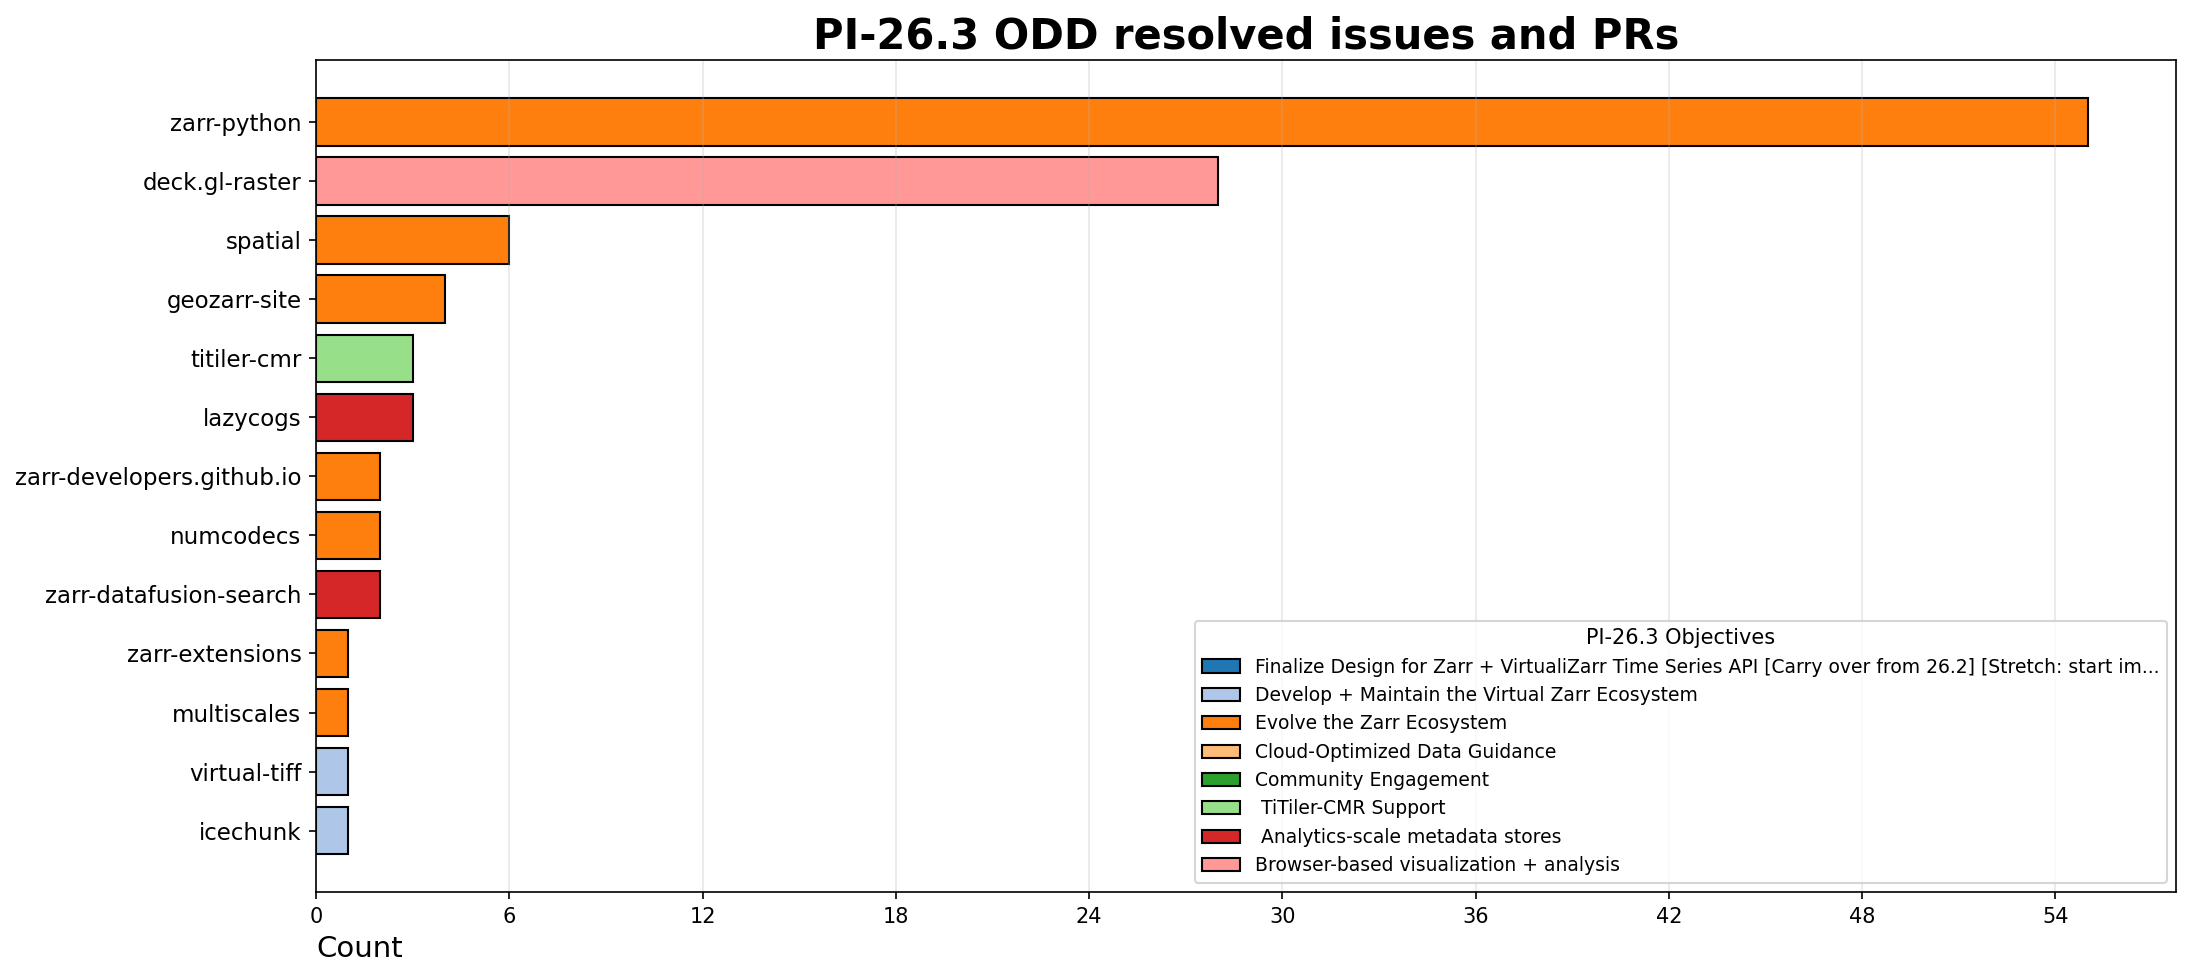
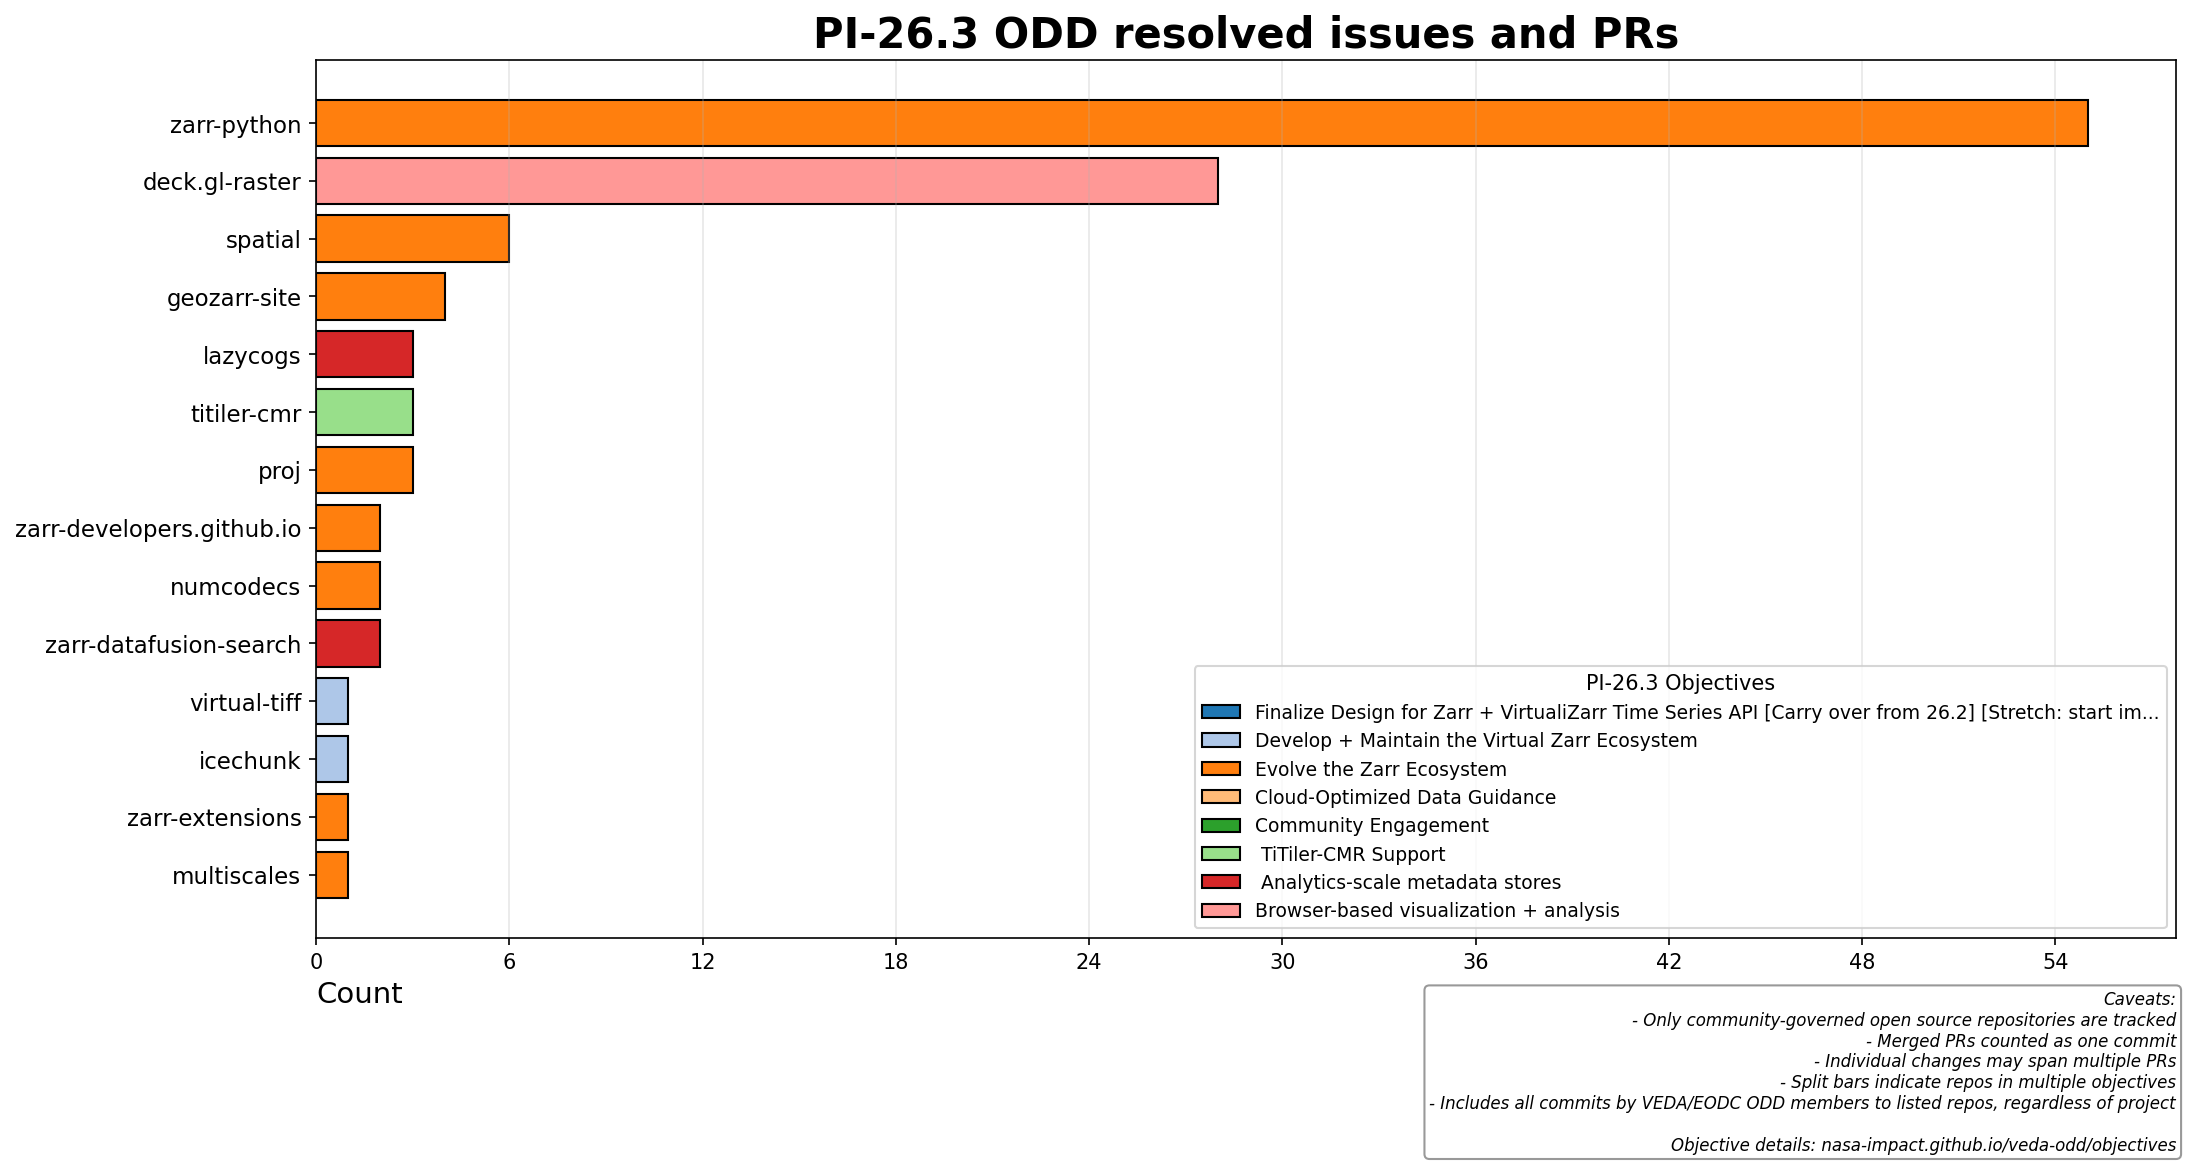
Update reports for 26051008189

diff --git a/docs/objectives.md b/docs/objectives.md
@@ -12,7 +12,7 @@ This page tracks quarterly objectives for the VEDA/EODC ODD team and the open-so
 |---|-----------|--------------|-------|
 | [#307](https://github.com/NASA-IMPACT/veda-odd/issues/307) | 📈 Finalize Design for Zarr + VirtualiZarr Time Series API... | hrodmn | titiler, titiler-lambda-layer, titiler-md-demo |
 | [#346](https://github.com/NASA-IMPACT/veda-odd/issues/346) | 🤖 Develop + Maintain the Virtual Zarr Ecosystem | maxrjones, tylanderson, HarshiniGirish | virtualizarr, virtual-tiff, icechunk, virtualzarr.cloud |
-| [#347](https://github.com/NASA-IMPACT/veda-odd/issues/347) | 🌳 Evolve the Zarr Ecosystem | d-v-b, chuckwondo, maxrjones | geozarr-spec, zarr-python, multiscales, geo-proj, spatial, zarr-specs, zarr-extensions, geozarr-toolkit, numcodecs, geozarr-site, zarr-developers.github.io |
+| [#347](https://github.com/NASA-IMPACT/veda-odd/issues/347) | 🌳 Evolve the Zarr Ecosystem | d-v-b, chuckwondo, maxrjones | geozarr-spec, zarr-python, multiscales, proj, spatial, zarr-specs, zarr-extensions, geozarr-toolkit, numcodecs, geozarr-site, zarr-developers.github.io |
 | [#348](https://github.com/NASA-IMPACT/veda-odd/issues/348) | 📝 Cloud-Optimized Data Guidance | abarciauskas-bgse, hrodmn, siddharth0248 | - |
 | [#349](https://github.com/NASA-IMPACT/veda-odd/issues/349) | 🤗 Community Engagement | sharkinsspatial, chuckwondo, maxrjones, abarciauskas-bgse | pangeo.io |
 | [#350](https://github.com/NASA-IMPACT/veda-odd/issues/350) | 🛠️ TiTiler-CMR Support | chuckwondo, abarciauskas-bgse | titiler, titiler-cmr, titiler-lambda-layer, titiler-md-demo, rio-tiler |